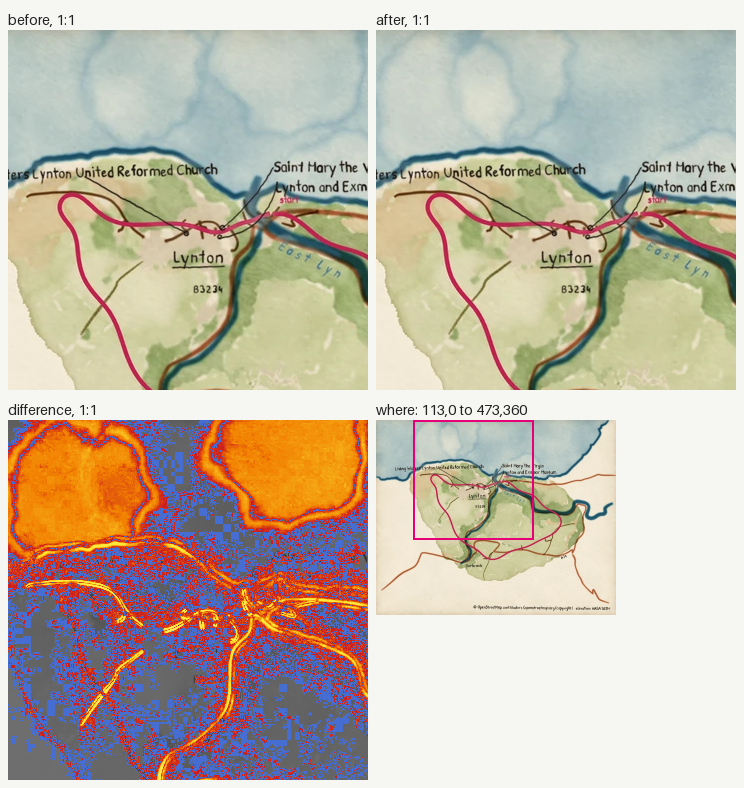
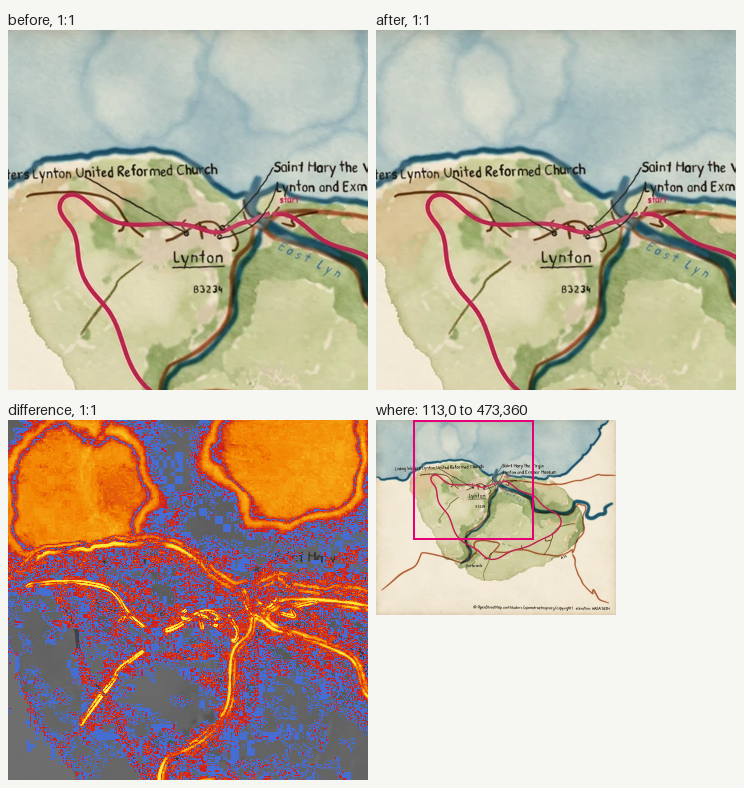
Review images for fix/59-skye-mainland-sea

Changed region(s): [[0.0, 0.6396, 0.4946, 1.0]]

diff --git a/fix/59-skye-mainland-sea/summary.md b/fix/59-skye-mainland-sea/summary.md
@@ -1,20 +1,20 @@
 ### Image changes
 
-Before: `/tmp/claude-0/-home-user-pyntpot/1d79c270-6236-5bf4-82b6-e519237905dd/scratchpad/g59m/before`. After: `/tmp/claude-0/-home-user-pyntpot/1d79c270-6236-5bf4-82b6-e519237905dd/scratchpad/g59m/after`. 7 changed, 0 added, 0 removed.
+Before: `origin/main`. After: `working tree`. 7 changed, 0 added, 0 removed.
 Changed counts the pixels past channel delta 2; the parity gate bounds it at 0.005 (ADR 0030). Local: the box covers at most a quarter of the image.
 
 | File | Size | Changed | Max delta | Box | Extent |
 |---|---|---|---|---|---|
-| `docs/images/how-to/command-line.webp` | 720x583 | 0.258791 (over 0.005) | 147 | 0,0 to 720,583 | widespread |
-| `docs/images/places/skye.webp` | 720x643 | 0.740999 (over 0.005) | 230 | 0,0 to 720,643 | widespread |
-| `tests/golden/docs/how-to/command-line.png` | 240x194 | 0.146843 (over 0.005) | 80 | 0,0 to 240,185 | widespread |
-| `tests/golden/docs/places/skye.png` | 240x214 | 0.555004 (over 0.005) | 176 | 0,0 to 240,214 | widespread |
-| `tests/golden/lynmouth/labels-centreline.webp` | 1800x1457 | 0.014197 (over 0.005) | 243 | 268,307 to 1800,1056 | widespread |
-| `tests/golden/lynmouth/map.png` | 1800x1457 | 0.127123 (over 0.005) | 150 | 0,0 to 1800,1379 | widespread |
-| `tests/golden/lynmouth/wash.webp` | 1800x1457 | 0.131084 (over 0.005) | 182 | 0,0 to 1800,1379 | widespread |
+| `docs/images/how-to/command-line.webp` | 720x583 | 0.261411 (over 0.005) | 133 | 0,0 to 720,583 | widespread |
+| `docs/images/places/skye.webp` | 720x643 | 0.742399 (over 0.005) | 224 | 0,0 to 720,643 | widespread |
+| `tests/golden/docs/how-to/command-line.png` | 240x194 | 0.145232 (over 0.005) | 70 | 0,0 to 240,185 | widespread |
+| `tests/golden/docs/places/skye.png` | 240x214 | 0.552979 (over 0.005) | 175 | 0,0 to 240,214 | widespread |
+| `tests/golden/lynmouth/labels-centreline.webp` | 1800x1457 | 0.013320 (over 0.005) | 243 | 268,307 to 1800,1056 | widespread |
+| `tests/golden/lynmouth/map.png` | 1800x1457 | 0.126473 (over 0.005) | 141 | 0,0 to 1800,1379 | widespread |
+| `tests/golden/lynmouth/wash.webp` | 1800x1457 | 0.130470 (over 0.005) | 168 | 0,0 to 1800,1379 | widespread |
 
 <details>
-<summary><code>docs/images/how-to/command-line.webp</code>: widespread, 0.258791</summary>
+<summary><code>docs/images/how-to/command-line.webp</code>: widespread, 0.261411</summary>
 
 ![docs/images/how-to/command-line.webp: before, after and difference](docs/images/how-to/command-line.webp.diff.png)
 
@@ -23,7 +23,7 @@ Changed counts the pixels past channel delta 2; the parity gate bounds it at 0.0
 </details>
 
 <details>
-<summary><code>docs/images/places/skye.webp</code>: widespread, 0.740999</summary>
+<summary><code>docs/images/places/skye.webp</code>: widespread, 0.742399</summary>
 
 ![docs/images/places/skye.webp: before, after and difference](docs/images/places/skye.webp.diff.png)
 
@@ -32,7 +32,7 @@ Changed counts the pixels past channel delta 2; the parity gate bounds it at 0.0
 </details>
 
 <details>
-<summary><code>tests/golden/docs/how-to/command-line.png</code>: widespread, 0.146843</summary>
+<summary><code>tests/golden/docs/how-to/command-line.png</code>: widespread, 0.145232</summary>
 
 ![tests/golden/docs/how-to/command-line.png: before, after and difference](tests/golden/docs/how-to/command-line.png.diff.png)
 
@@ -41,7 +41,7 @@ Changed counts the pixels past channel delta 2; the parity gate bounds it at 0.0
 </details>
 
 <details>
-<summary><code>tests/golden/docs/places/skye.png</code>: widespread, 0.555004</summary>
+<summary><code>tests/golden/docs/places/skye.png</code>: widespread, 0.552979</summary>
 
 ![tests/golden/docs/places/skye.png: before, after and difference](tests/golden/docs/places/skye.png.diff.png)
 
@@ -50,7 +50,7 @@ Changed counts the pixels past channel delta 2; the parity gate bounds it at 0.0
 </details>
 
 <details>
-<summary><code>tests/golden/lynmouth/labels-centreline.webp</code>: widespread, 0.014197</summary>
+<summary><code>tests/golden/lynmouth/labels-centreline.webp</code>: widespread, 0.013320</summary>
 
 ![tests/golden/lynmouth/labels-centreline.webp: before, after and difference](tests/golden/lynmouth/labels-centreline.webp.diff.png)
 
@@ -59,7 +59,7 @@ Changed counts the pixels past channel delta 2; the parity gate bounds it at 0.0
 </details>
 
 <details>
-<summary><code>tests/golden/lynmouth/map.png</code>: widespread, 0.127123</summary>
+<summary><code>tests/golden/lynmouth/map.png</code>: widespread, 0.126473</summary>
 
 ![tests/golden/lynmouth/map.png: before, after and difference](tests/golden/lynmouth/map.png.diff.png)
 
@@ -68,7 +68,7 @@ Changed counts the pixels past channel delta 2; the parity gate bounds it at 0.0
 </details>
 
 <details>
-<summary><code>tests/golden/lynmouth/wash.webp</code>: widespread, 0.131084</summary>
+<summary><code>tests/golden/lynmouth/wash.webp</code>: widespread, 0.130470</summary>
 
 ![tests/golden/lynmouth/wash.webp: before, after and difference](tests/golden/lynmouth/wash.webp.diff.png)
 
